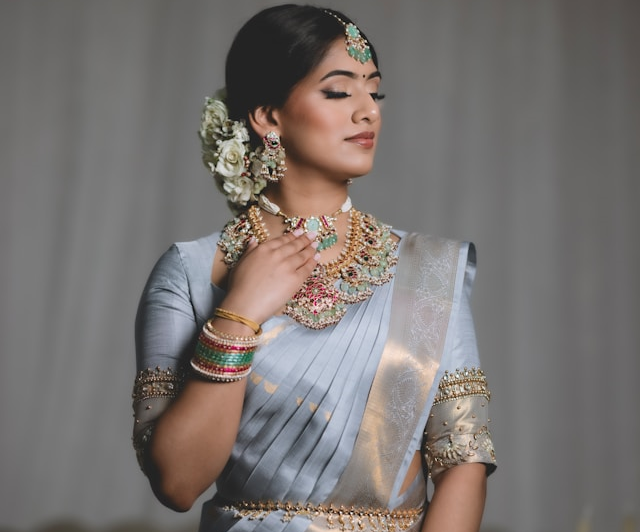
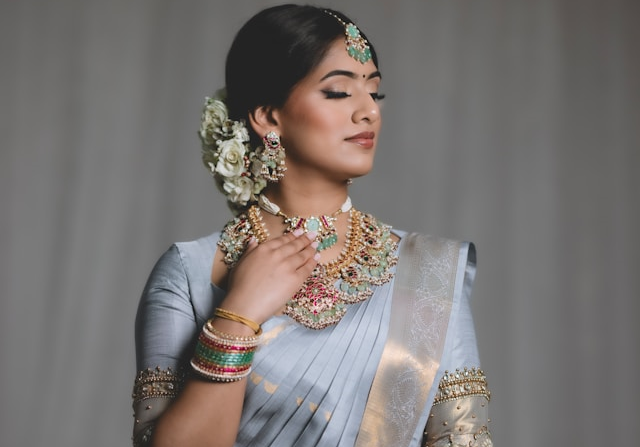
updated image name

diff --git a/src/components/UISamples/CardComponent/Cards/Card4.jsx b/src/components/UISamples/CardComponent/Cards/Card4.jsx
@@ -17,7 +17,7 @@ const Card4 = () => {
       }}
     >
       <div className="relative">
-        <img src="/profile-3-alt.png" alt="Traditional Woman in Saree" />
+        <img src="/profile-3.png" alt="Traditional Woman in Saree" />
         <div className="absolute bottom-4 right-4 flex space-x-2">
           <span
             className="px-2 py-1 text-xs rounded font-medium cursor-default"
